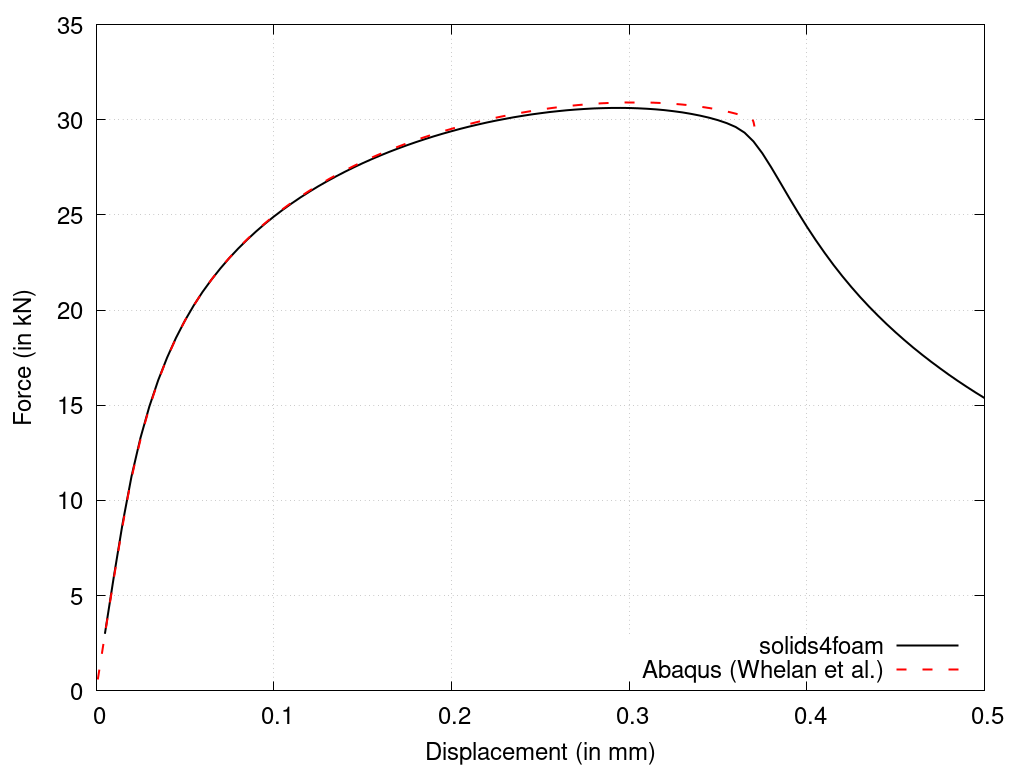
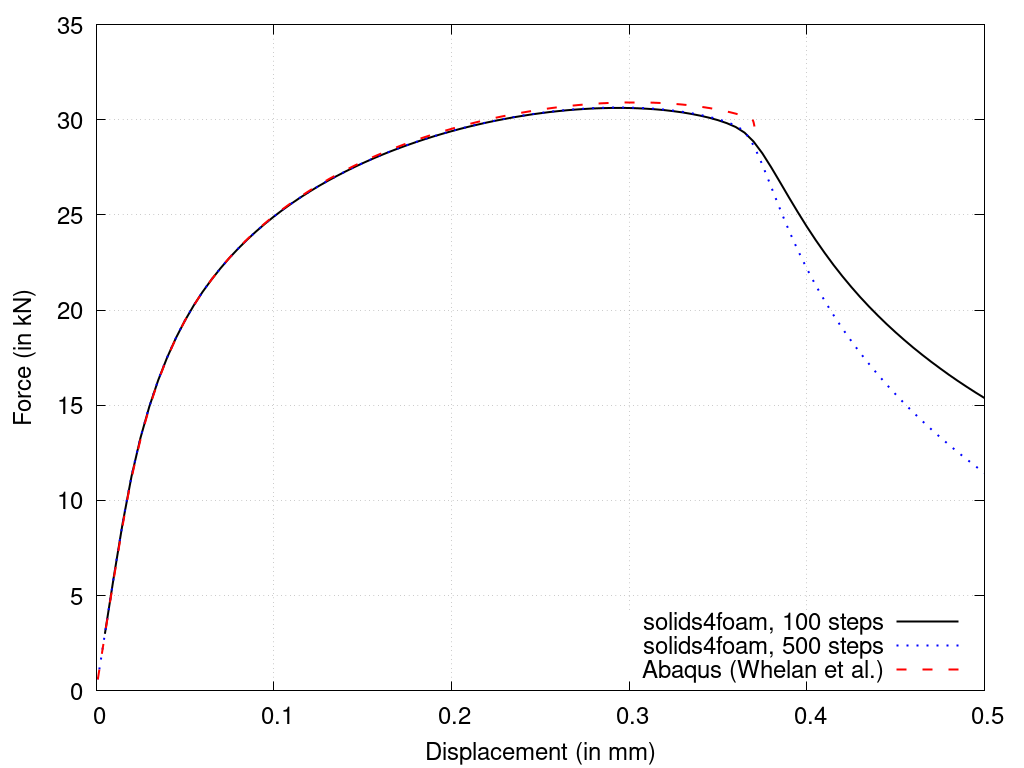
notchedBarGTN: show the step dependence of the post-peak drop
Add the force with 500 steps, the step of Whelan et al., to the figure
and README: within 0.2% of the 100-step force up to 0.35 mm, but falling
faster after 0.37 mm, where the local void fraction localises.

Claude-Session: https://claude.ai/code/session_01B5uQh3BG8tVU15xpj2aaJW

Changed region(s): [[0.625, 0.7812, 0.9375, 0.875]]

diff --git a/tutorials/solids/fracture/notchedBarGTN/README.md b/tutorials/solids/fracture/notchedBarGTN/README.md
@@ -82,7 +82,10 @@ solids4foam force slightly lower, as for the `notchedBar` and
 $$0.37$$ mm, as it failed to converge [1]; solids4foam continues through
 the sharp loss of strength that follows, as the void fraction at the centre
 of the notch passes $$0.3$$. Since the void fraction is local, this last
-part of the curve depends on the mesh.
+part of the curve depends on the mesh, and on the step: with $$500$$ steps,
+the step of [1], the force agrees with that of $$100$$ steps to within
+$$0.2\%$$ up to $$0.35$$ mm, but falls faster after $$0.37$$ mm, to
+$$15.6$$ kN at $$0.45$$ mm against $$18.8$$ kN.
 
 ![Figure 1: Reaction force at the loading boundary against displacement](./images/notchedBarGTN-forceDisplacement.png)
 
